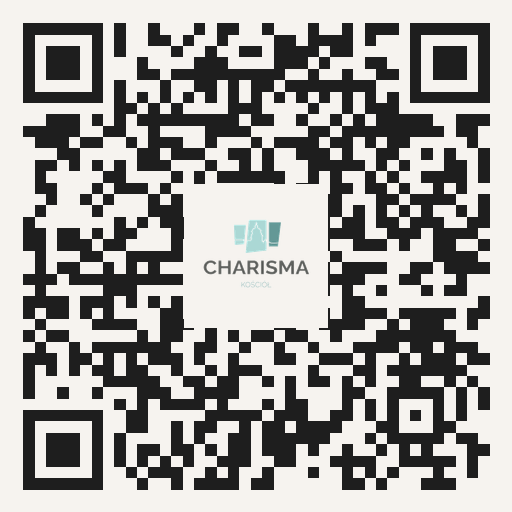
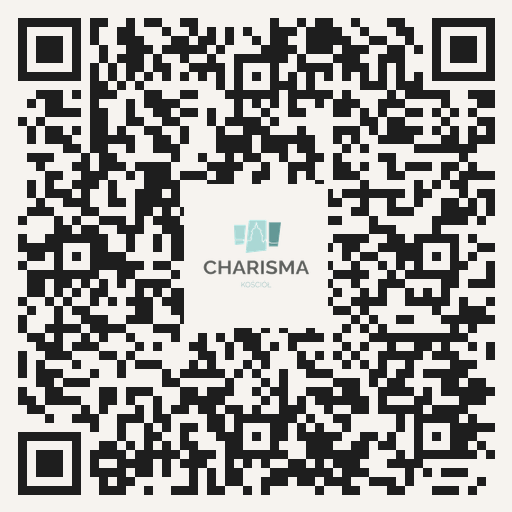
fix: QR wskazuje na kalendarz Google zamiast strony www

diff --git a/scripts/generate-qr.js b/scripts/generate-qr.js
@@ -16,7 +16,10 @@ function loadConfig() {
 
 async function main() {
   const config = loadConfig();
-  const url = config.siteUrl || "https://robywas.github.io/ogloszeniaCharisma/";
+  const url =
+    config.calendarUrl ||
+    config.siteUrl ||
+    "https://calendar.google.com/calendar/embed?src=kosciolcharisma%40gmail.com&ctz=Europe%2FWarsaw";
   const assetsDir = join(root, "docs", "assets");
   const logoPath = join(root, "docs", config.logoPath || "assets/logo.png");
   const outPath = join(assetsDir, "qr.png");

diff --git a/docs/index.html b/docs/index.html
@@ -19,7 +19,7 @@
     <main class="board" id="board">
       <header class="board__header">
         <h1 class="board__title" id="title">Ładowanie…</h1>
-        <img class="board__qr" src="assets/qr.png" alt="Kod QR – kalendarz wydarzeń online" />
+        <img class="board__qr" src="assets/qr.png?v=2" alt="Kod QR – kalendarz Google" />
       </header>
       <ul class="events" id="events"></ul>
       <p class="board__empty" id="empty" hidden>Brak wydarzeń w ciągu najbliższych 7 dni (od jutra).</p>

diff --git a/README.md b/README.md
@@ -49,7 +49,7 @@ npm run qr       # generuje docs/assets/qr.png (z logo w środku, jeśli jest lo
 2. Uruchom **`npm run qr`** — tworzy `docs/assets/qr.png` z logo w środku kodu
 3. Wypchnij na GitHub (`docs/assets/`)
 
-QR kieruje na adres z `siteUrl` w `config.json`. Logo i QR wyświetlają się na dole strony.
+QR kieruje na **`calendarUrl`** w `config.json` (kalendarz Google). Logo i QR wyświetlają się na stronie.
 
 Podgląd: otwórz `docs/index.html` w przeglądarce (najlepiej przez prosty serwer, np. `npx serve docs`).
 
@@ -71,7 +71,7 @@ Edytuj `docs/style.css` — zmienne `--title-size`, `--event-title-size`, kolory
 | `timezone` | `Europe/Warsaw` |
 | `daysAhead`  | `7` — liczba dni od jutra |
 | `title` | Nagłówek strony |
-| `siteUrl` | Adres strony (QR kod) |
+| `calendarUrl` | Adres kalendarza Google (kod QR) |
 | `logoPath` | Ścieżka do logo w `docs/` (domyślnie `assets/logo.png`) |
 | `excludeTitles` | Wydarzenia do ukrycia, np. `["Nie ma spotkań"]` |
 | `dayLayout` | `rows` — dni obok siebie (wt\|śr); `columns` — najpierw lewa kolumna, potem prawa |
